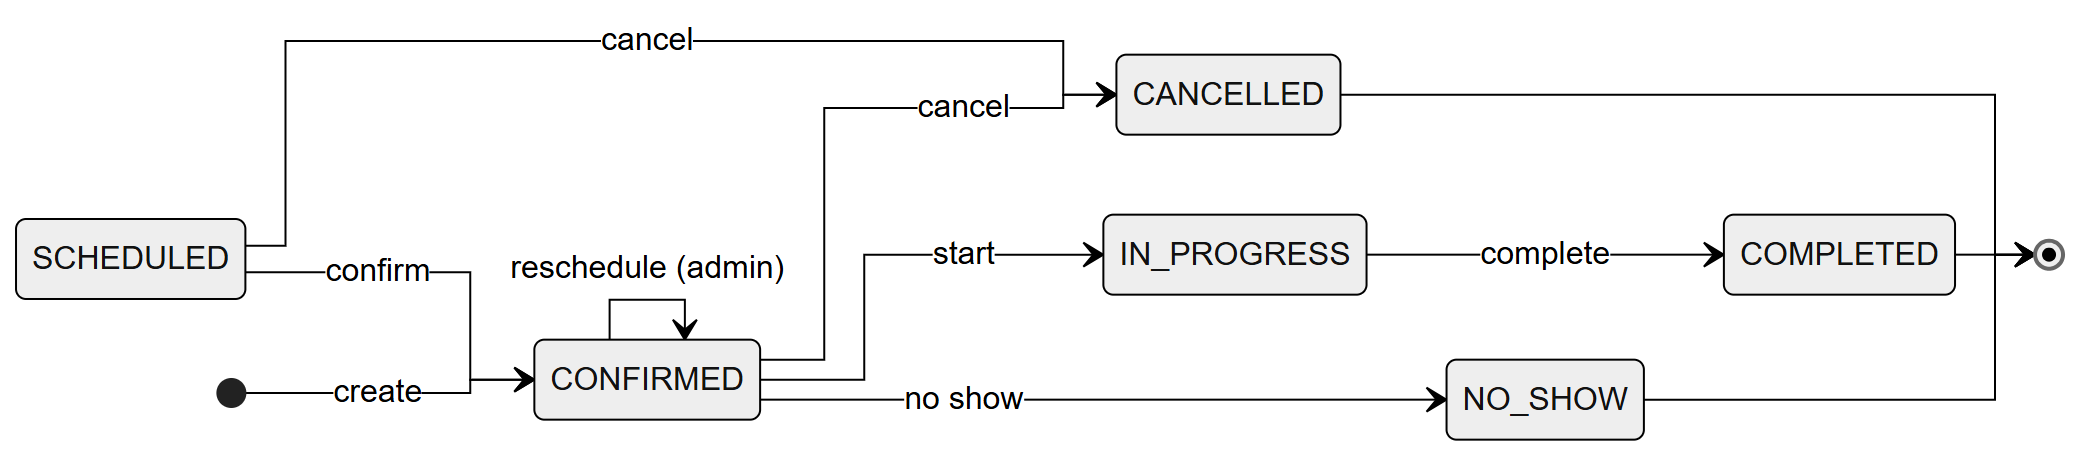
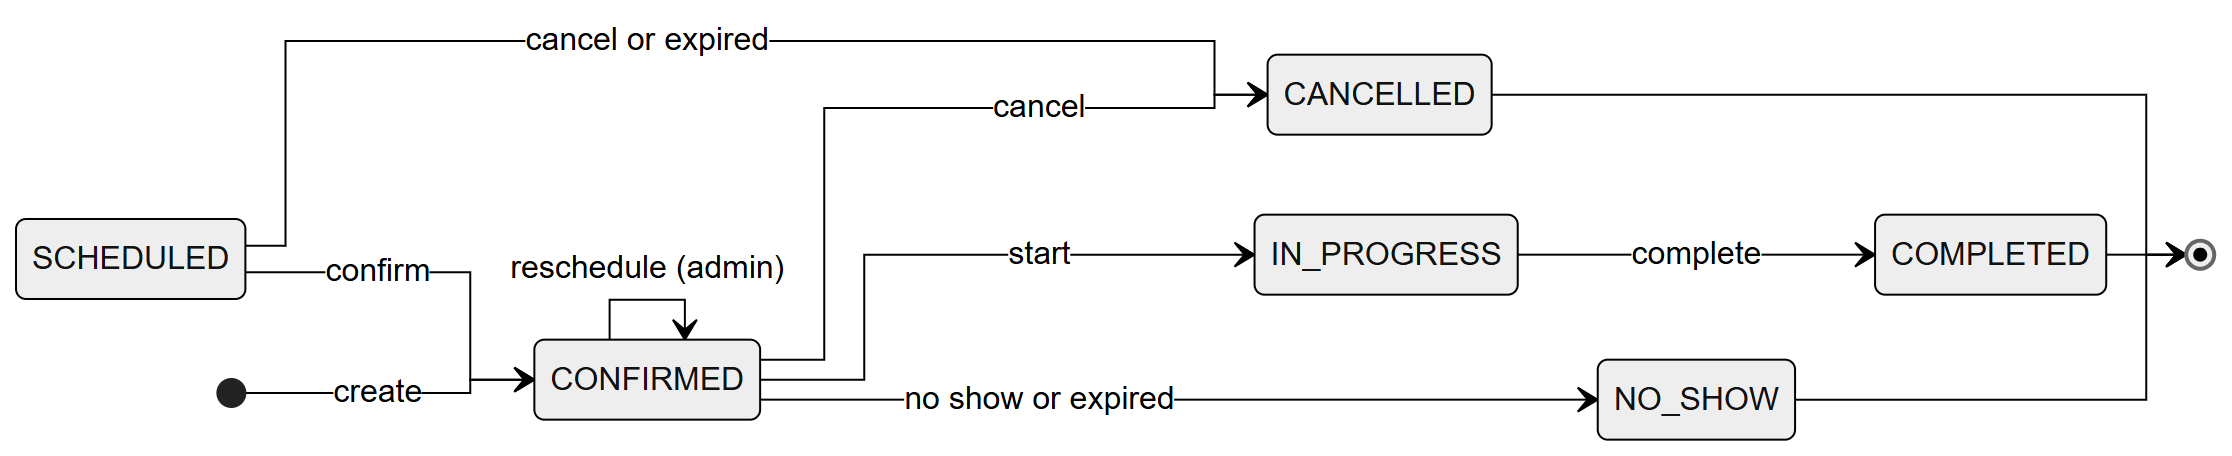
docs(booking): describe how expired bookings are closed by the system and the lock fix

diff --git a/08-uml/diagrams/source/state-booking.md b/08-uml/diagrams/source/state-booking.md
@@ -1,18 +1,18 @@
 # State — Booking lifecycle (RF-006, RF-007)
 
-Source: `booking-service` `Booking.moveTo`, `Booking.cancel`, `Booking.reschedule`, `BookingStatus`.
-Checked on 2026-10-20.
+Source: `booking-service` `Booking.moveTo`, `Booking.cancel`, `Booking.reschedule`, `Booking.expire`,
+`BookingStatus`, `ExpiredBookingsJob`. Checked on 2026-10-21.
 
 ```mermaid
 stateDiagram-v2
     direction LR
     [*] --> CONFIRMED : create
     SCHEDULED --> CONFIRMED : confirm
-    SCHEDULED --> CANCELLED : cancel
+    SCHEDULED --> CANCELLED : cancel or expired
     CONFIRMED --> CONFIRMED : reschedule (admin)
     CONFIRMED --> IN_PROGRESS : start
     CONFIRMED --> CANCELLED : cancel
-    CONFIRMED --> NO_SHOW : no show
+    CONFIRMED --> NO_SHOW : no show or expired
     IN_PROGRESS --> COMPLETED : complete
     COMPLETED --> [*]
     CANCELLED --> [*]
@@ -27,5 +27,6 @@ stateDiagram-v2
 | `start` and `complete` happen when the operator starts and finishes the service; `no show` when the client did not come | `Booking.moveTo` |
 | Only `SCHEDULED` and `CONFIRMED` can be changed or cancelled (RF-007); the client, only before the start time | `BookingStatus.isChangeable()`, `Booking.changeableByCustomer` |
 | `SCHEDULED`, `CONFIRMED`, `IN_PROGRESS` occupy the bay | `BookingStatus.occupiesBay()`, trigger `tr_booking_bay_overlap` |
+| `expired`: every 5 minutes a job closes the bookings still `SCHEDULED` or `CONFIRMED` one hour after their end. A `CONFIRMED` one becomes `NO_SHOW` (the client did not come; paid or not, nothing is refunded automatically) and a `SCHEDULED` one is cancelled with the system reason `EXPIRED`, which the admin cannot pick by hand. This frees the operator and the bay, and only the cancelled ones publish `BookingCancelled` | `ExpiredBookingsJob`, `BookingService.closeExpired`, `Booking.isExpired / expire` |
 | Any other move → 409 `INVALID_STATUS_TRANSITION` | `Booking.moveTo` |
 | `SCHEDULED` exists in the model (status id 1) but the current flow never creates it | `Booking.confirmNew` |

diff --git a/09-microservices/services/04-booking-service/decisions.md b/09-microservices/services/04-booking-service/decisions.md
@@ -19,6 +19,11 @@ soft-deleted instead (`valid_to > valid_from` constraint).
 transaction, then checks availability. Two clients asking for the same slot are served one after
 the other. The `tr_booking_bay_overlap` trigger is the last safety net.
 
+The JDBC driver opens the SQL Server transaction only at the first read, so a lock requested first
+was refused (`-999`, no transaction yet). Since 2026-10-21 the lock statement reads one row of
+`booking.booking_status` before `sp_getapplock`. `BEGIN TRANSACTION` was not used because in that
+mode it leaves an extra transaction level open after the commit.
+
 ## Availability is computed in the backend
 
 **Decision:** `AvailabilityPolicy` (pure domain code) returns the slots; the frontend only paints
@@ -35,3 +40,16 @@ ran in Colombian time.
 ## Booking code derived from the id
 
 **Decision:** `RES-` + the zero-padded id (e.g. `RES-000123`); no extra column.
+
+## Bookings nobody closed are closed by the system
+
+**Date:** 2026-10-21
+**Context:** A booking whose client never came stayed `CONFIRMED` forever. It kept counting as
+"unassigned" on the admin screens and, while open, the operator and the bay looked busy.
+**Decision:** A scheduled job (`ExpiredBookingsJob`, every 5 minutes) closes the bookings still
+`SCHEDULED` or `CONFIRMED` one hour after their end (`BOOKING_EXPIRY_GRACE_MINUTES`). `CONFIRMED`
+becomes `NO_SHOW`, even if it was paid (refunds stay a decision of the admin). `SCHEDULED` is
+cancelled with the reason `EXPIRED` (`Venció sin confirmarse`), which only the system uses. The job
+takes the schedule lock and logs a warning if a run fails; the next run tries again.
+**Consequences:** The hour of margin leaves time for a late client or an operator who finishes late.
+The operator is free again because operations only blocks an operator by overlapping times.

diff --git a/09-microservices/services/04-booking-service/README.md b/09-microservices/services/04-booking-service/README.md
@@ -39,6 +39,11 @@
   bookings through `IN_PROGRESS`, `COMPLETED`, `NO_SHOW` or `CANCELLED` (choosing a reason from
   `cancellation_reason`; `CUSTOMER_REQUEST` when none is sent). The API also has a client reschedule
   (`PUT /bookings/{id}`), but the web and the app do not use it.
+- **Expired bookings:** every 5 minutes (`ExpiredBookingsJob`) the bookings still `SCHEDULED` or
+  `CONFIRMED` one hour after their end are closed: `CONFIRMED` → `NO_SHOW` (no automatic refund),
+  `SCHEDULED` → `CANCELLED` with the system reason `EXPIRED`. It takes the same schedule lock as
+  booking, and only the cancelled ones publish `BookingCancelled`. The reason `EXPIRED` is not listed
+  in `/bookings/cancellation-reasons`.
 - **Schedule history:** every change of the weekly hours, exceptions and bays is recorded in
   `booking.schedule_history` (`GET /api/v1/admin/schedule/history`).
 - **Establishment:** the shop's public data (name, address, contact).
@@ -101,6 +106,8 @@ cd lavarapido-booking-service
 | `BOOKING_ZONE` | `America/Bogota` | Shop time zone |
 | `BOOKING_SLOT_MINUTES` | `30` | Availability grid |
 | `BOOKING_MAX_DAYS_AHEAD` | `60` | How far ahead clients can book |
+| `BOOKING_EXPIRY_GRACE_MINUTES` | `60` | How long after its end an open booking is closed by the system |
+| `BOOKING_EXPIRY_CHECK_ENABLED`, `BOOKING_EXPIRY_CHECK_INTERVAL` | `true`, `PT5M` | Turn the expired-bookings job on or off and how often it runs |
 | `MESSAGING_ENABLED`, `RABBITMQ_*` | `false` | Publish booking events |
 
 ---

diff --git a/10-devops/environments.md b/10-devops/environments.md
@@ -44,6 +44,8 @@ variables override it. Main variables:
 | `ROUTE_*_URL`, `GATEWAY_PORT` | api-gateway | Where each service is: `ROUTE_SECURITY_URL` (3001), `ROUTE_CUSTOMER_URL` (3002), `ROUTE_BOOKING_URL` (3003), `ROUTE_OPERATIONS_URL` (3004), `ROUTE_PAYMENT_URL` (3005), `ROUTE_NOTIFICATION_URL` (3006) |
 | `BOOKING_ZONE` | booking, operations | `America/Bogota` |
 | `BOOKING_SLOT_MINUTES`, `BOOKING_MAX_DAYS_AHEAD` | booking | `30` (start times offered every 30 min), `60` (how far ahead a client can book) |
+| `BOOKING_EXPIRY_GRACE_MINUTES`, `BOOKING_EXPIRY_CHECK_ENABLED`, `BOOKING_EXPIRY_CHECK_INTERVAL` | booking | `60` (an open booking is closed 1 h after its end), `true`, `PT5M` (the job runs every 5 minutes) |
+| `SESSION_CHECK_ENABLED`, `SESSION_CHECK_CACHE_TTL`, `SESSION_CHECK_TIMEOUT` | api-gateway | `true`, `30s` (how long the answer about a token's session is kept), `3s` (wait for security-service before letting the call go on) |
 | `ADMIN_EMAIL`, `ADMIN_PASSWORD`, `ADMIN_FIRST_NAME`, `ADMIN_LAST_NAME`, `ADMIN_DOCUMENT`, `ADMIN_PHONE` | security | First administrator created at startup when there is none (production; empty locally) |
 | `AUTO_ASSIGN_ENABLED` | operations | Automatic operator assignment when a booking is confirmed |
 | `SITE_ADDRESS`, `PUBLIC_URL` | Caddy, services | Production only: domain (or `:80`) and public base URL |

diff --git a/02-domain/entities-and-rules.md b/02-domain/entities-and-rules.md
@@ -177,12 +177,16 @@ SCHEDULED ── confirm (needs a bay) ──▶ CONFIRMED
 CONFIRMED ── start ──▶ IN_PROGRESS ── complete ──▶ COMPLETED
 CONFIRMED ── no-show ──▶ NO_SHOW
 SCHEDULED / CONFIRMED ── cancel (reason stored) ──▶ CANCELLED
+CONFIRMED ── still open 1 h after its end (system) ──▶ NO_SHOW
+SCHEDULED ── still open 1 h after its end (system, reason EXPIRED) ──▶ CANCELLED
 SCHEDULED / CONFIRMED ── reschedule (admin) ──▶ same state, new time and bay (prices kept)
 ```
 
 Only `SCHEDULED` and `CONFIRMED` can be changed or cancelled (RF-007). The client cancels before the
 start time without giving a reason (the booking stores `CUSTOMER_REQUEST`); the admin reschedules and
-may choose the cancellation reason. Diagram:
+may choose the cancellation reason. A booking nobody closed does not stay open: one hour after its
+end (`BOOKING_EXPIRY_GRACE_MINUTES`) the system moves it as shown above, so the operator and the bay
+are free again and the "unassigned" counts stop including it. Diagram:
 `08-uml/diagrams/source/state-booking.md`.
 
 ### Booking rules

diff --git a/06-data/models.md b/06-data/models.md
@@ -1141,7 +1141,7 @@ CREATE TABLE [booking].cancellation_reason (
 | Column | Type | Nullable | Description | Constraints |
 |--------|------|----------|--------------|-------------|
 | `cancellation_reason_id` | SMALLINT | No | Surrogate primary key (IDENTITY). | PK |
-| `code` | NVARCHAR(30) | No | `CUSTOMER_REQUEST`, `SCHEDULE_CONFLICT`, `VEHICLE_ISSUE`, `SHOP_ISSUE`, `LATE_ARRIVAL` (customer fault), `OTHER` (seed `104`). | Unique |
+| `code` | NVARCHAR(30) | No | `CUSTOMER_REQUEST`, `SCHEDULE_CONFLICT`, `VEHICLE_ISSUE`, `SHOP_ISSUE`, `LATE_ARRIVAL` (customer fault), `OTHER` (seed `104`); `EXPIRED` (seed `112`), used only by the system when it closes a booking nobody confirmed, never offered to the admin. | Unique |
 | `name` | NVARCHAR(60) | No | Label. | — |
 | `is_customer_fault` | BIT | No | Distinguishes reasons attributable to the customer, used for reporting and penalty decisions. | — |
 | `display_order` | SMALLINT | No | Sort order. | — |

diff --git a/09-microservices/services/04-booking-service/events.md b/09-microservices/services/04-booking-service/events.md
@@ -8,7 +8,7 @@ booking is still saved and the error is logged (the Outbox pattern is not adopte
 | Event | Routing key | When | Payload |
 |---|---|---|---|
 | `BookingConfirmed` | `booking.confirmed` | A booking is created, or rescheduled (by the admin) | `bookingId`, `bookingCode`, `customerUserId`, `customerVehicleId`, `scheduledStart` (UTC), `serviceBayId`, and `preferredOperatorId` when the client chose one (RF-010, only on creation) |
-| `BookingCancelled` | `booking.cancelled` | Cancelled by the client (reason `CUSTOMER_REQUEST`) or the admin (reason chosen) | same + `reason` |
+| `BookingCancelled` | `booking.cancelled` | Cancelled by the client (reason `CUSTOMER_REQUEST`), the admin (reason chosen) or the system when a `SCHEDULED` booking expired (reason `EXPIRED`) | same + `reason` |
 
 `customerUserId` is the client (the caller, or the vehicle owner when the admin books), so
 notification-service knows whom to notify without asking booking.

diff --git a/09-microservices/services/04-booking-service/data-model.md b/09-microservices/services/04-booking-service/data-model.md
@@ -41,7 +41,8 @@ Liquibase, changelog table `DATABASECHANGELOG_BOOKING`:
 `005-create-booking-schemas` (tables + triggers) · `018-booking-adr-010` ·
 `021-booking-schedule-history` · `022-booking-catalog-loyalty-points` · `024-booking-revert-bay-operator` ·
 seeds `103-seed-catalog` (categories, BASIC/PREMIUM/FULL with prices for the 6 vehicle types),
-`104-seed-booking-catalogs` (statuses, cancellation reasons), `109-seed-establishment-schedule`
+`104-seed-booking-catalogs` (statuses, cancellation reasons), `112-seed-expired-cancellation-reason`
+(the system reason `EXPIRED`), `109-seed-establishment-schedule`
 (shop, weekly hours, 4 bays), `032-booking-establishment-business-data` (legal, tax and channel
 columns of the shop), `110-seed-establishment-business-data` (their example values) and
 `111-clear-example-business-data` (empties them again so the real business fills them in).
